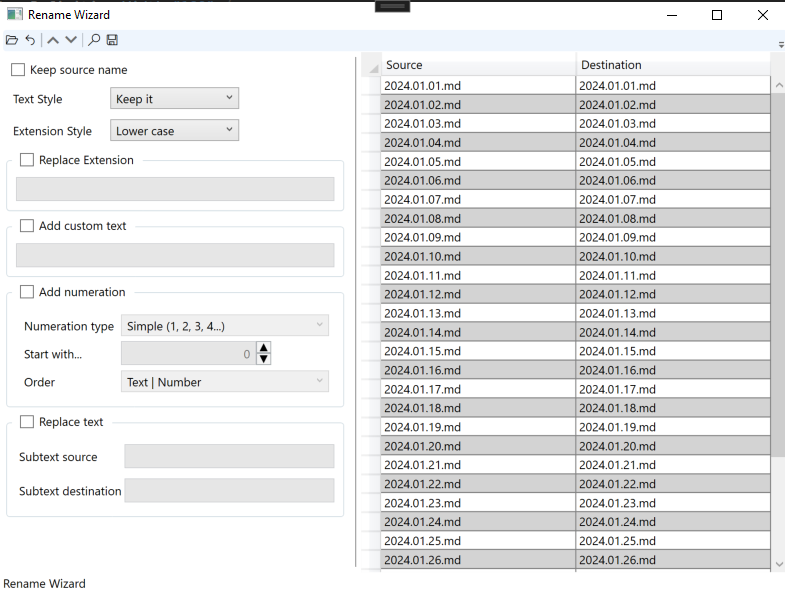
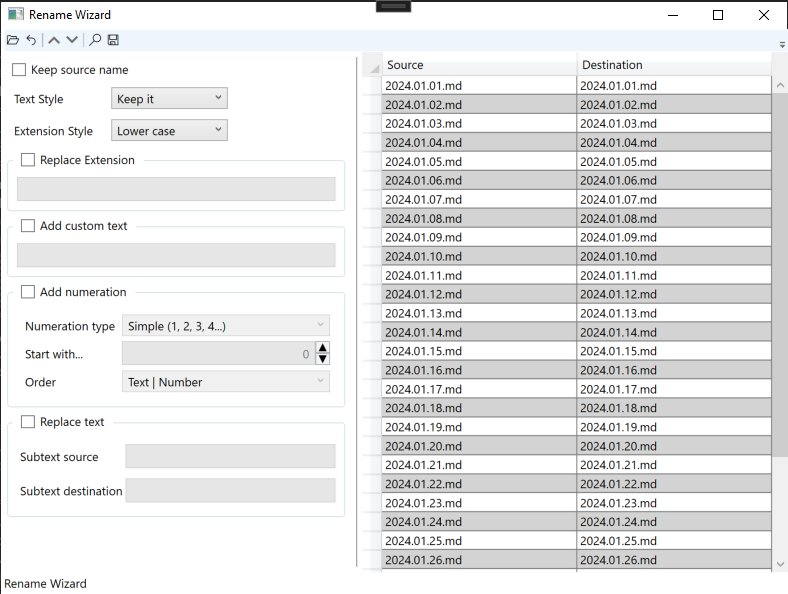
Adjusts NumberTextBlock width

diff --git a/RenameWizard/Views/MainWindow.xaml b/RenameWizard/Views/MainWindow.xaml
@@ -267,9 +267,7 @@
                             <ctrl:NumberTextBlock
                                 Grid.Row="1"
                                 Grid.Column="1"
-                                Width="150"
                                 Margin="0 5 0 5"
-                                HorizontalAlignment="Left"
                                 Value="{Binding StartNumber}">
                                 <ctrl:NumberTextBlock.Style>
                                     <Style TargetType="{x:Type ctrl:NumberTextBlock}">
